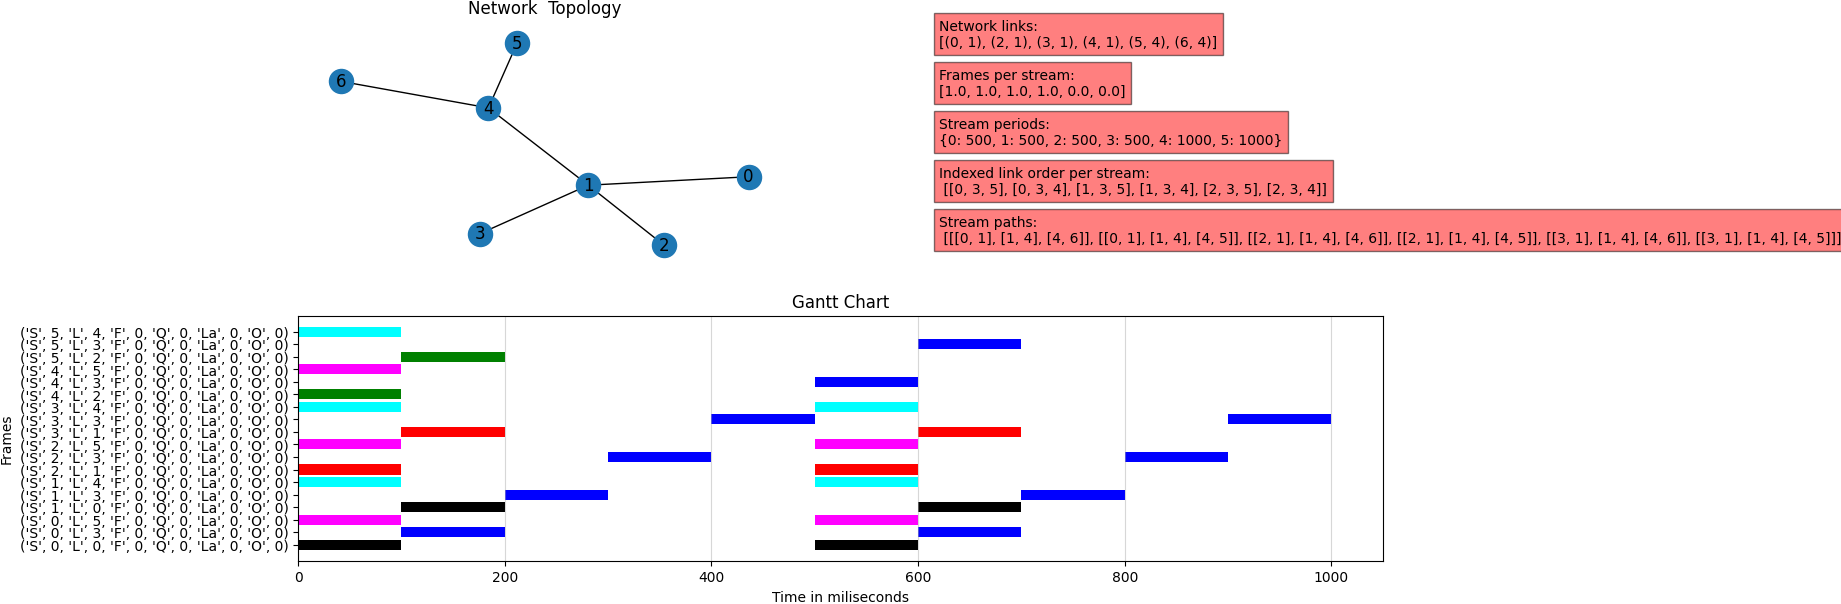
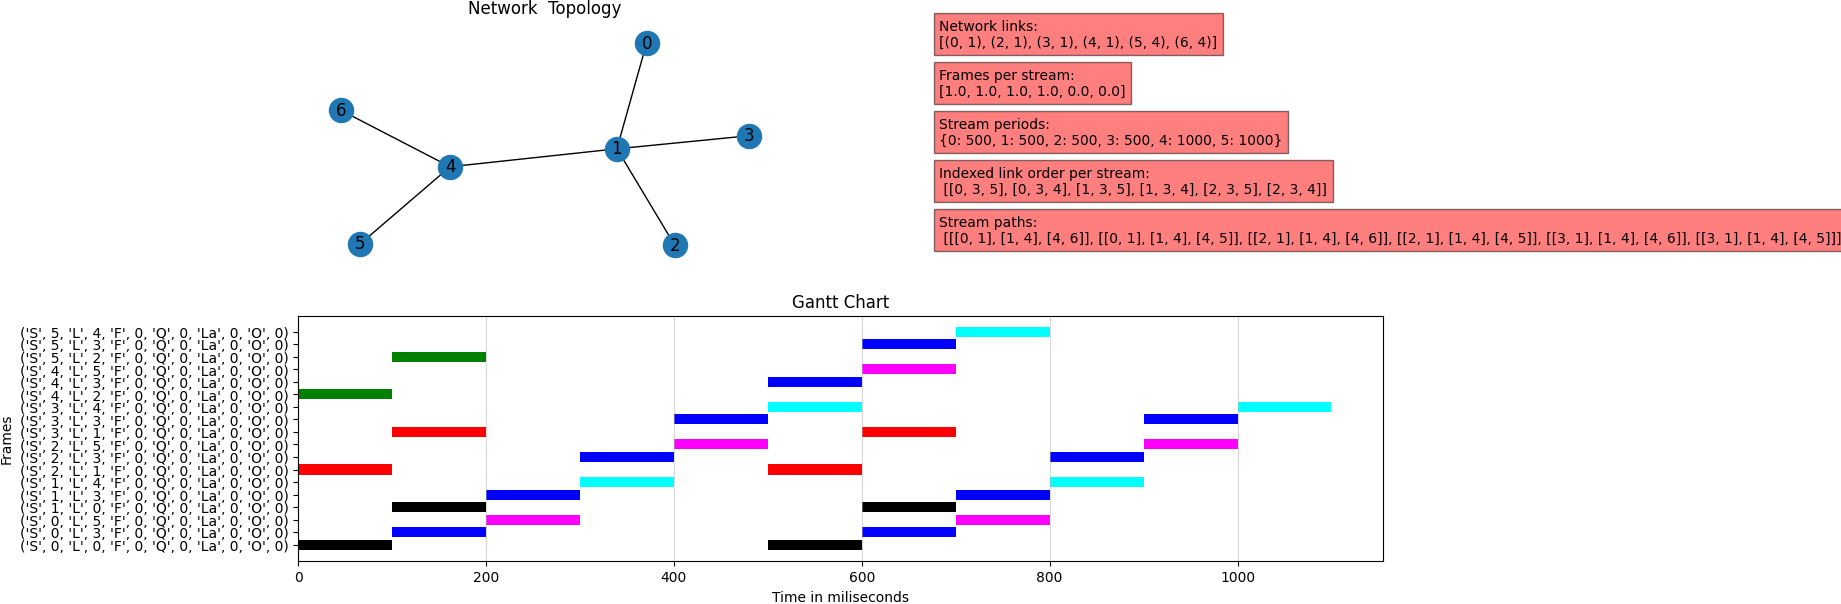
27 de mayo commit con todo funcionando

diff --git a/Heuristic_Generator.py b/Heuristic_Generator.py
@@ -106,7 +106,7 @@ def Greedy_Heuristic(model):
 
 def Schedule_flow(key_stream, value_stream, model):
     #for frame in range(model.Num_of_Frames_Dic[key_stream]): #tramas de cada link
-    print("eeeeee ",model.Frames_per_Stream[key_stream])
+    print("    ")
     for frame in range(model.Frames_per_Stream[key_stream][0]):
         a = 0
         b = 1
@@ -123,10 +123,10 @@ def Schedule_flow(key_stream, value_stream, model):
         #Bound_dic = (lower_bound, model.Streams_Period[key_stream])
         #print(f"Lower_bound[{key_send_link}] = {value(model.Lower_bound[key_send_link])}")
         #print(f"Upper_bound[{key_send_link}] = {value(model.Upper_bound[key_send_link])}")
-
+        ultima_vez =False
         contador=1
-        #while contador < len(model.Streams_paths_Dic[key_stream]):
-        while link != reciving_link:
+        while contador < len(model.Streams_paths_Dic[key_stream]):
+        #while not ultima_vez:
             print("contador ", contador, len(model.Streams_paths_Dic[key_stream]))
             #Ecuacion 45
             link_anterior = (model.Streams_paths_Dic[key_stream][a-1],model.Streams_paths_Dic[key_stream][b-1])
@@ -143,7 +143,7 @@ def Schedule_flow(key_stream, value_stream, model):
             
             #model.Solution[key_stream, key_link, frame] = tiempo[0]
             #print(f"Solution[{key_stream}, {key_link}, {frame}] = {value(model.Solution[key_stream, key_link, frame])}")
-            print("tiempo  ", tiempo[0], "upper ", model.Upper_bound[key_stream, key_link, frame].value)
+            print("tiempo  ", tiempo[0], "uuper ",  model.Upper_bound[key_stream, key_link, frame].value)
             print("tiempo 2 ", tiempo[1])
 
             #if value(model.Solution[key_stream, key_link, frame]) == float('inf'):
@@ -158,9 +158,8 @@ def Schedule_flow(key_stream, value_stream, model):
                                 
                 model.Lower_bound[key_stream, key_link, frame] = tiempo[0] #model.Solution[key_stream, key_link, frame]
                 model.Upper_bound[key_stream, key_link, frame] = tiempo[1] #model.Solution[key_stream, key_link, frame]+100
-                #print(f"Lower_bound[{key_link}] = {value(model.Lower_bound[key_link])}")
-                #print(f"Upper_bound[{key_link}] = {value(model.Upper_bound[key_link])}")
-
+                print(f"Lower_bound[{key_stream, key_link, frame}] = {value(model.Lower_bound[key_stream, key_link, frame])}")
+                print(f"Upper_bound[{key_stream, key_link, frame}] = {value(model.Upper_bound[key_stream, key_link, frame])}")
                 #model.Ocupacion_Queue[key_link,model.Queue_Assignment[key_stream, key_link]] = tiempo
                 #Bound_dic = tiempo
                 a += 1
@@ -171,7 +170,7 @@ def Schedule_flow(key_stream, value_stream, model):
                     link = next_link
                     key_link = next((key_stream for key_stream, value_stream in model.Network_links_Dic.items() if value_stream == link or value_stream == tuple(reversed(link))),None)
                     model.Upper_bound[key_stream, key_link, frame] = Latest_queue_available_time(key_link, model.Streams_Period[key_stream])
-                    #print(f"Upper_bound[{key_stream, key_link, frame}] = {value(model.Upper_bound[key_stream, key_link, frame])}")
+                    print(f"Upper_boundlatest[{key_stream, key_link, frame}] = {value(model.Upper_bound[key_stream, key_link, frame])}")
                 contador +=1
             else:
                 print("22222 else   ")
@@ -180,12 +179,18 @@ def Schedule_flow(key_stream, value_stream, model):
                 link_next = (model.Streams_paths_Dic[key_stream][a], model.Streams_paths_Dic[key_stream][b])
                 link = link_next
                 key_link_next = next((key_stream for key_stream, value_stream in model.Network_links_Dic.items() if value_stream == link or value_stream == tuple(reversed(link))),None)
+                key_link =key_link_next
                 print("**********  link_next  ",link_next, "  key_link_next  ",key_link_next)
                 if key_link_next is not None:
                     model.Lower_bound[key_stream, key_link_next, frame] = Earliest_queue_available_time(key_link_next, model.Streams_Period[key_stream])
+                print(f"Lower_bound[{key_stream, key_link, frame}] = {value(model.Lower_bound[key_stream, key_link, frame])}")
+                print(f"Upper_bound[{key_stream, key_link, frame}] = {value(model.Upper_bound[key_stream, key_link, frame])}")
                 contador -=1
 
-    return True, key_link #, Result_offsets 
+            
+
+    #return True, key_link #, Result_offsets 
+    return model.Latency[key_stream].value <= model.Deathline_Stream[key_stream], key_link
 
 def Add_Solution(key_link, tiempo, model, key_stream): #Es por las posibles repeticiones dentro de una trama 
     #print("-----------")
@@ -221,16 +226,16 @@ def Earliest_offset(model, frame, key_link, key_stream):
     tiempo= 0.0
     #print("link  ", link,"Streams  ",stream)
     #print("Bound_dic   ",Bound_dic[0])
-    print("flexibility_solution   ",flexibility_solution.get(key_link))
+    #print("flexibility_solution   ",flexibility_solution.get(key_link))
     #if model.Ocupacion_Queue[key_link, model.Queue_Assignment[key_stream, key_link]] is not None:
     #link_order = tuple(sorted(link))
-    print(f"Lower_bound[{key_stream, key_link, frame}] = {value(model.Lower_bound[key_stream, key_link, frame])}")
+    #print(f"Lower_bound[{key_stream, key_link, frame}] = {value(model.Lower_bound[key_stream, key_link, frame])}")
     a = model.Lower_bound[key_stream, key_link, frame].value
     if flexibility_solution.get(key_link)is not None:
         b = int(flexibility_solution[key_link][-1][-1])
         mayor_max = max(a, b)
         #print(mayor_max)
-        print(" ----------- mayor   ",mayor_max)
+        #print(" ----------- mayor   ",mayor_max)
         #print("len ",len(flexibility_solution[link]))
         if len(flexibility_solution[key_link]) == 1:
             #print("value  ",flexibility_solution[link][-1])
@@ -245,25 +250,32 @@ def Earliest_offset(model, frame, key_link, key_stream):
         #print("no existe ",tiempo)
     return tiempo
 
-def Latest_queue_available_time(key_link, Streams_Period):
+def Latest_queue_available_time(key_link, Streams_Period):# @CORREGIO ¿?QUE SIGNIFICA ESTO
     if flexibility_solution.get(key_link)is not None:
-        tiempo = flexibility_solution[key_link][-1][-1]
-        print("existe ",tiempo, key_link)
+    #    if flexibility_solution[key_link][-1][-1] == Streams_Period:
+    #        return float('inf')
+    #    else:
+    #        return max(flexibility_solution[key_link][-1][-1], Streams_Period)
+        print("existe ", key_link)
     else:
         tiempo = Streams_Period
         #print("no existe ",tiempo)
+    tiempo = Streams_Period
     return tiempo
 
 def Earliest_queue_available_time(key_link, Streams_Period):
     if flexibility_solution.get(key_link)is not None:
+        #for i in range(len(flexibility_solution.get(key_link)) - 1):
+        #    if flexibility_solution.get(key_link)[i][1] != flexibility_solution.get(key_link)[i + 1][0]:
+        #        tiempo =  flexibility_solution.get(key_link)[i][1]
         tiempo = flexibility_solution[key_link][-1][-1]
-        #print("existe ",tiempo)
+        print("existe ",tiempo)
     else:
         tiempo = Streams_Period
     return tiempo
 
 def Lower_bound(send_link, link, model, key_stream, frame, key_link, key_link_anterior):
-    print("--link  ",link, "frame   ",frame, "  send_link  ",send_link, "  key_link_anterior  ",key_link_anterior)
+    print("--link  ",link, "key_link ",key_link, "  send_link  ",send_link, "  key_link_anterior  ",key_link_anterior)
     if frame == 0 and link == send_link:
         return 0.0
     elif frame >= 1  and link == send_link:

diff --git a/Heuristic_Visualizer.py b/Heuristic_Visualizer.py
@@ -12,7 +12,7 @@ from Heuristic_Generator import *
 import time
 from read import *
 
-input = "input5-2"
+input = "input5-1"
 file_input = "Solutions/"+input+".json"
 
 def Heuristic_results_visualizer(instance, Model_Descriptor_vector):
@@ -25,7 +25,7 @@ def Heuristic_results_visualizer(instance, Model_Descriptor_vector):
             for k in instance.Frames:
                 if Model_Descriptor_vector [i][k][j] :
                     print("The offset of stream", i, "link", j, "frame", k, "is",instance.Lower_bound[i,j,k].value)
-                    frame_indicator = ("S", i, "L", j, "F", k, "Q",instance.Queue_Assignment[i, j].value, "La",int(instance.Latency[i].value), "O",int(instance.Frame_Offset[i,j,k].value))
+                    frame_indicator = ("S", i, "L", j, "F", k, "Q",int(instance.Queue_Assignment[i, j].value), "La",int(instance.Latency[i].value), "O",int(instance.Frame_Offset[i,j,k].value))
                     helper = { "Task" :str(frame_indicator), "Start": instance.Lower_bound[i,j,k].value, "Finish" : instance.Upper_bound[i,j,k].value, "Color" : j }
                     clean_offset = { "Task" :str(frame_indicator), "Start": instance.Lower_bound[i,j,k].value }
                     Result_offsets.append(helper)
